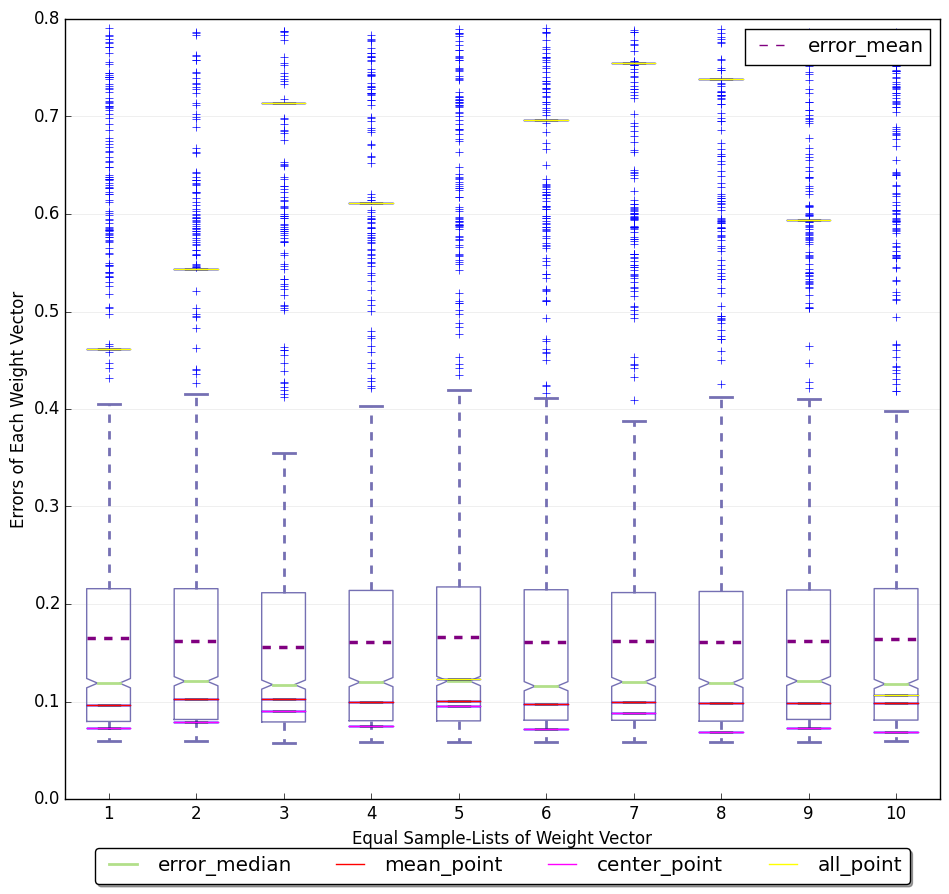
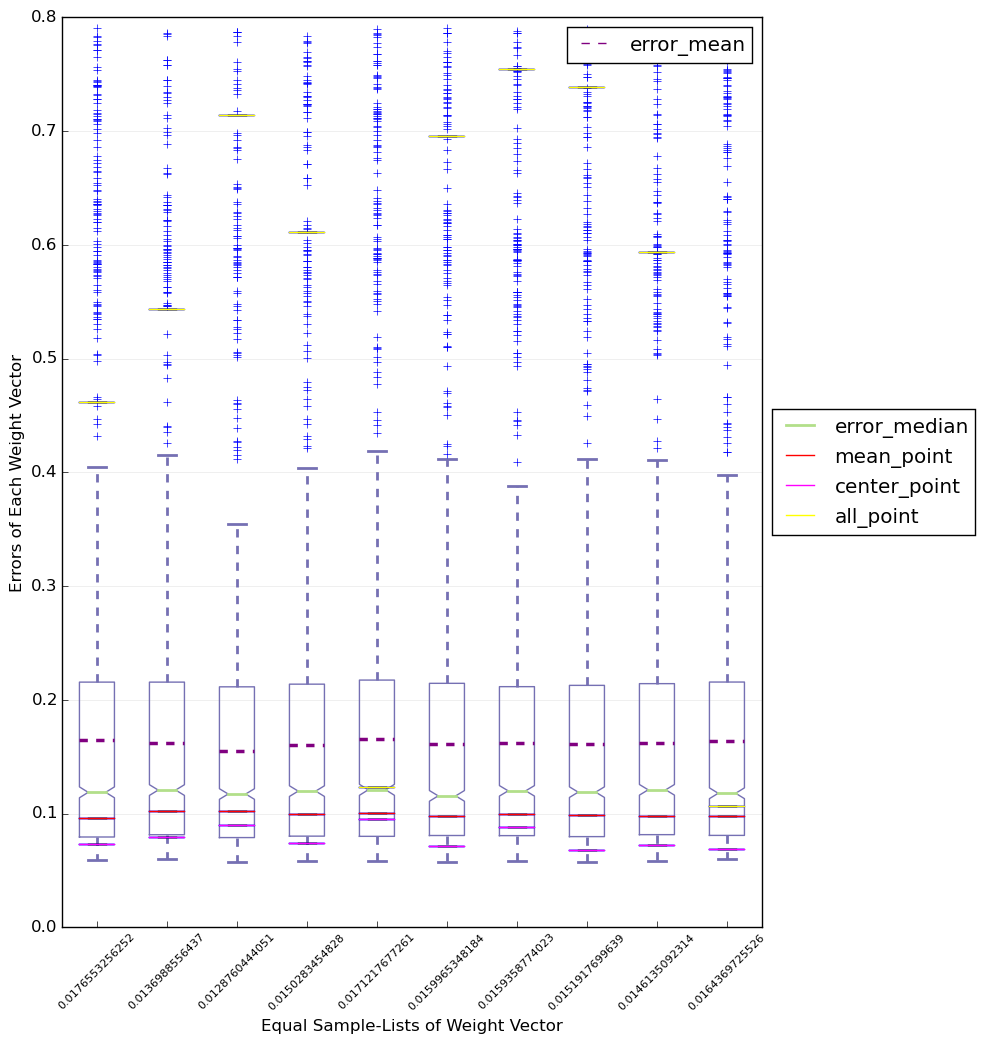
add box plot for special point vectors, normal weights vectors, and the corresponding variance information is also plotted

diff --git a/src/lib/plot.py b/src/lib/plot.py
@@ -3,6 +3,7 @@ This file provide plot tools
 """
 import numpy as np
 import matplotlib.pyplot as plt
+from matplotlib.patches import Polygon
 import matplotlib.lines as mlines
 import matplotlib.backends.backend_pdf as pltpage
 from pylab import *
@@ -69,11 +70,16 @@ class Plot:
             pdf.savefig(fig)
             plt.close()
 
-    def box_plot_equal(self, equal_list, equal_special_list, path):
-        fig1 = plt.figure(1, figsize=(10, 12))
+    def box_plot_with_special_point(self, equal_list, equal_special_list, path, str_):
+        fig1 = plt.figure(1, figsize=(10, 14))
         ax = fig1.add_subplot(111)
         plt.subplots_adjust(left=0.075, right=0.95, top=0.9, bottom=0.25)
         meanlineprops = dict(linestyle='--', linewidth=2.5, color='purple')
+
+        # get all the variance value w.r.t equal_list(random_list)
+        randomDists = [np.var(equal_list[0]), np.var(equal_list[1]), np.var(equal_list[2]), np.var(equal_list[3]), np.
+            var(equal_list[4]), np.var(equal_list[5]), np.var(equal_list[6]), np.var(equal_list[7]),
+                       np.var(equal_list[8]), np.var(equal_list[9])]
         bp_0 = ax.boxplot(equal_list, 1, meanprops=meanlineprops, meanline=True, showmeans=True)
 
         bp_1 = ax.boxplot(equal_special_list[0])
@@ -107,8 +113,10 @@ class Plot:
 
         # Hide these grid behind plot objects
         ax.set_axisbelow(True)
-        ax.set_xlabel('Equal Sample-Lists of Weight Vector')
-        ax.set_ylabel('Errors of Each Weight Vector')
+
+        # add xtick name with variance value
+        xticksNames = plt.setp(ax, xticklabels=np.repeat(randomDists, 1))
+        plt.setp(xticksNames, rotation=45, fontsize=8)
 
         # change outline color, fill color and linewidth of the boxes
         for box in bp_0['boxes']:
@@ -132,46 +140,38 @@ class Plot:
 
         dash_line = mlines.Line2D([], [], color='purple', label='error_mean', linestyle='--')
 
+        if str_ == "equal":
+            ax.set_xlabel('Equal Sample-Lists of Weight Vector')
+        else:
+            ax.set_xlabel('Random Sample-Lists of Weight Vector')
+        ax.set_ylabel('Errors of Each Weight Vector')
         # Put a legend below current axis
         f1 = plt.legend(handles=[dash_line], loc=1)
 
-        ax.legend(loc='upper center', bbox_to_anchor=(0.5, -0.05), fancybox=True, shadow=True,
-                  ncol=5)
+        box = ax.get_position()
+        ax.set_position([box.x0, box.y0, box.width * 0.8, box.height])
+
+        # Put a legend to the right of the current axis
+        ax.legend(loc='center left', bbox_to_anchor=(1, 0.5))
 
         ax = plt.gca().add_artist(f1)
 
-        fig1.savefig(path+'fig_equal.png', bbox_inches='tight')
+        if str_ == "equal":
+            fig1.savefig(path+'fig_equal.png', bbox_inches='tight')
+        else:
+            fig1.savefig(path+'fig_random.png', bbox_inches='tight')
 
         plt.close()
 
-    def box_plot_random(self, random_list, random_special_list, path):
-
-        fig2 = plt.figure(1, figsize=(10, 12))
-        ax = fig2.add_subplot(111)
+    def box_plot_no_special_point(self, equal_list, path, str_):
+        fig1 = plt.figure(1, figsize=(10, 10))
+        ax = fig1.add_subplot(111)
         plt.subplots_adjust(left=0.075, right=0.95, top=0.9, bottom=0.25)
-        meanlineprops_0 = dict(linestyle='--', linewidth=2.5, color='purple')
-        bp_0 = ax.boxplot(random_list, 1, meanprops=meanlineprops_0, meanline=True, showmeans=True)
-
-        bp_1 = ax.boxplot(random_special_list[0])
-        for i, median in enumerate(bp_1['medians']):
-            if i == 0:
-                median.set(color='red', linewidth=1, label="mean_point")
-            else:
-                median.set(color='red', linewidth=1)
-
-        bp_2 = ax.boxplot(random_special_list[1])
-        for i, median in enumerate(bp_2['medians']):
-            if i == 0:
-                median.set(color='magenta', linewidth=1, label="center_point")
-            else:
-                median.set(color='magenta', linewidth=1)
-
-        bp_3 = ax.boxplot(random_special_list[2])
-        for i, median in enumerate(bp_3['medians']):
-            if i == 0:
-                median.set(color='yellow', linewidth=1, label="all_point")
-            else:
-                median.set(color='yellow', linewidth=1)
+        meanlineprops = dict(linestyle='--', linewidth=2.5, color='purple')
+        randomDists = [np.var(equal_list[0]), np.var(equal_list[1]), np.var(equal_list[2]), np.var(equal_list[3]), np.
+            var(equal_list[4]), np.var(equal_list[5]), np.var(equal_list[6]), np.var(equal_list[7]),
+                       np.var(equal_list[8]), np.var(equal_list[9])]
+        bp_0 = ax.boxplot(equal_list, 1, meanprops=meanlineprops, meanline=True, showmeans=True)
 
         # Remove top axes and right axes ticks
         ax.get_xaxis().tick_bottom()
@@ -183,8 +183,10 @@ class Plot:
 
         # Hide these grid behind plot objects
         ax.set_axisbelow(True)
-        ax.set_xlabel('Random Sample-Lists of Weight Vector')
-        ax.set_ylabel('Errors of Each Weight Vector')
+
+        # add xtick name with variance value
+        xticksNames = plt.setp(ax, xticklabels=np.repeat(randomDists, 1))
+        plt.setp(xticksNames, rotation=45, fontsize=8)
 
         # change outline color, fill color and linewidth of the boxes
         for box in bp_0['boxes']:
@@ -205,18 +207,66 @@ class Plot:
                 median.set(color='#b2df8a', linewidth=2, label="error_median")
             else:
                 median.set(color='#b2df8a', linewidth=2)
+        ax.set_ylabel('Errors of Each Weight Vector')
+        if str_ == "equal":
+            ax.set_xlabel('Equal Sample-Lists of Weight Vector')
+            fig1.savefig(path+'fig_equal_.png', bbox_inches='tight')
+        else:
+            ax.set_xlabel('Random Sample-Lists of Weight Vector')
+            fig1.savefig(path+'fig_random_.png', bbox_inches='tight')
 
-        dash_line = mlines.Line2D([], [], color='purple', label='error_mean', linestyle='--')
+        plt.close()
 
-        # Put a legend below current axis
-        f1 = plt.legend(handles=[dash_line], loc=1)
+    def box_plot_only_special_point(self, special_list, path, str_):
+        fig1 = plt.figure(1, figsize=(10, 10))
+        ax = fig1.add_subplot(111)
+        plt.subplots_adjust(left=0.075, right=0.95, top=0.9, bottom=0.25)
+        meanlineprops = dict(linestyle='--', linewidth=2.5, color='purple')
+        randomDists = [np.var(special_list[0]), np.var(special_list[1]), np.var(special_list[2])]
+        bp_0 = ax.boxplot(special_list, 1, meanprops=meanlineprops, meanline=True, showmeans=True)
 
-        ax.legend(loc='upper center', bbox_to_anchor=(0.5, -0.05), fancybox=True, shadow=True,
-                  ncol=5)
+        # Remove top axes and right axes ticks
+        ax.get_xaxis().tick_bottom()
+        ax.get_yaxis().tick_left()
 
-        ax = plt.gca().add_artist(f1)
+        # Add a horizontal grid to the plot, but make it very light in color
+        # so we can use it for reading data values but not be distracting
+        ax.yaxis.grid(True, linestyle='-', which='major', color='lightgrey', alpha=0.5)
 
-        fig2.savefig(path+'fig_random.png', bbox_inches='tight')
+        # Hide these grid behind plot objects
+        ax.set_axisbelow(True)
+
+        # add xtick name with variance value
+        xticksNames = plt.setp(ax, xticklabels=np.repeat(randomDists, 1))
+        plt.setp(xticksNames, rotation=45, fontsize=8)
+
+        # change outline color, fill color and linewidth of the boxes
+        for box in bp_0['boxes']:
+            # change outline color
+            box.set(color='#7570b3', linewidth=1)
+
+        # change color and linewidth of the whiskers
+        for whisker in bp_0['whiskers']:
+            whisker.set(color='#7570b3', linewidth=2)
+
+        # change color and linewidth of the caps
+        for cap in bp_0['caps']:
+            cap.set(color='#7570b3', linewidth=2)
+
+        # change color and linewidth of the medians
+        for i, median in enumerate(bp_0['medians']):
+            if i == 0:
+                median.set(color='#b2df8a', linewidth=2, label="error_median")
+            else:
+                median.set(color='#b2df8a', linewidth=2)
+        ax.set_ylabel('Errors of Each Weight Vector')
+        if str_ == "equal":
+            ax.set_xlabel('Equal Sample-Lists of Special Point Vector')
+            fig1.savefig(path+'fig_special_equal_.png', bbox_inches='tight')
+        else:
+            ax.set_xlabel('Random Sample-Lists of Special Point Vector')
+            fig1.savefig(path+'fig_special_random_.png', bbox_inches='tight')
+
         plt.close()
 
     def box_plot(self, n, path):
@@ -237,5 +287,9 @@ class Plot:
             random_special_list[2].append(ra_all_list)
 
         print len(random_special_list)
-        self.box_plot_equal(equal_list, equal_special_list, path)
-        self.box_plot_random(random_list, random_special_list, path)
+        self.box_plot_with_special_point(equal_list, equal_special_list, path, "equal")
+        self.box_plot_with_special_point(random_list, random_special_list, path, "random")
+        self.box_plot_no_special_point(equal_list, path, "equal")
+        self.box_plot_no_special_point(random_list, path, "random")
+        self.box_plot_only_special_point(equal_special_list, path, "equal")
+        self.box_plot_only_special_point(random_special_list, path, "random")

diff --git a/src/main.py b/src/main.py
@@ -21,4 +21,6 @@ from src.lib import plot
 
 """ box plot """
 my_plot = plot.Plot()
+
+# number of files, and path of files
 my_plot.box_plot(10, "../resources/skin/result/errors/")
